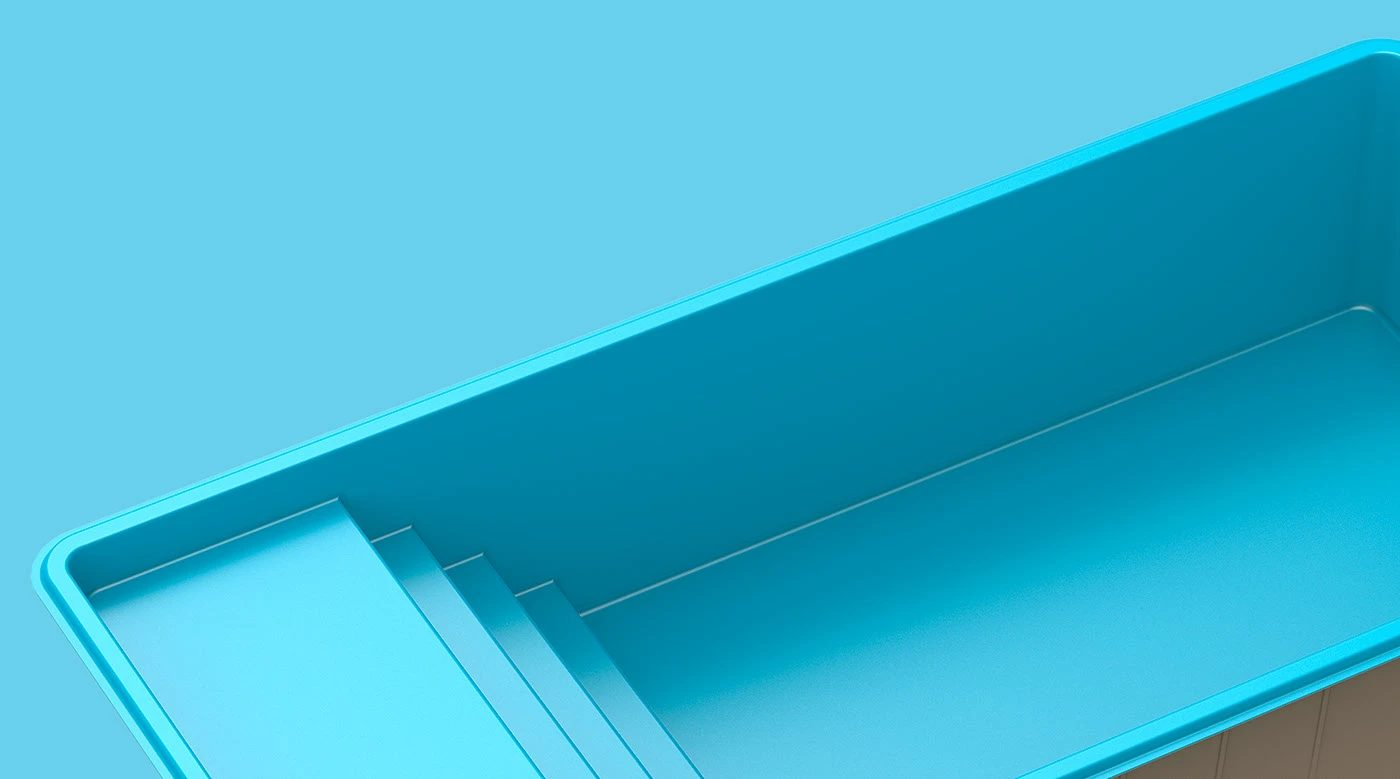
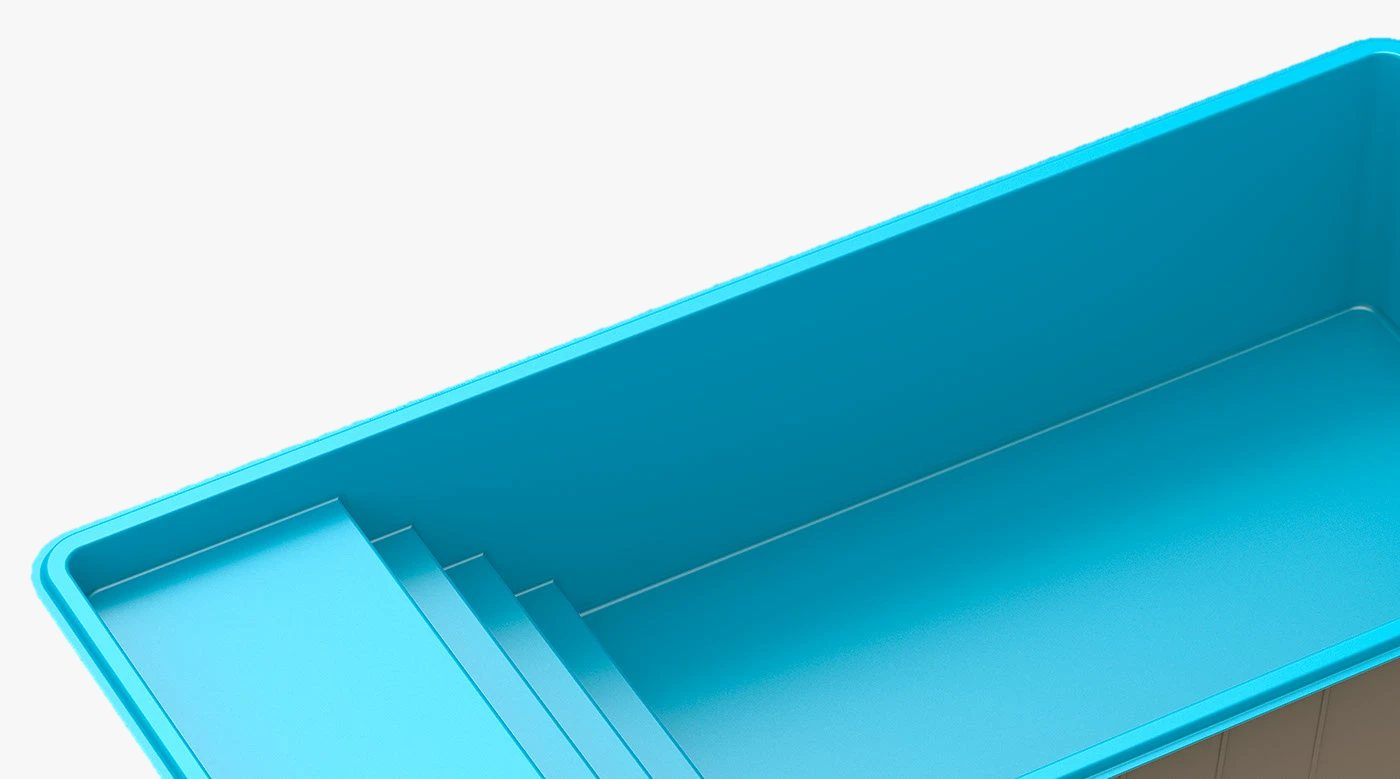
Piletas: portada sobre fondo gris claro y un único bloque final de producto terminado
Claude-Session: https://claude.ai/code/session_01638GQR5QWwYxM8MmgUFgoU

diff --git a/proyectos/piletas.html b/proyectos/piletas.html
@@ -47,7 +47,7 @@
   </div>
 
   <figure class="cs-hero">
-    <img src="../assets/img/piletas/principal.jpg" alt="Render de la pileta RH con su escalera integrada sobre fondo celeste" width="1400" height="779" style="border-radius: 4px">
+    <img src="../assets/img/piletas/principal.jpg" alt="Render de la pileta RH con su escalera integrada sobre fondo gris claro" width="1400" height="779" style="border-radius: 4px">
   </figure>
 
   <section class="cs-intro">
@@ -94,71 +94,19 @@
     <div class="cs-block__head">
       <div class="cs-block__title">
         <span class="num">03</span>
-        <h2 class="h2"><span data-l="es">Escalera y detalles</span><span data-l="en">Steps and details</span></h2>
+        <h2 class="h2"><span data-l="es">Producto terminado</span><span data-l="en">Finished product</span></h2>
       </div>
-    </div>
-    <div class="g" style="grid-template-columns: 0.750fr 0.750fr 0.750fr 0.750fr">
-      <figure class="tile"><img src="../assets/img/piletas/escalera-1.jpg" alt="Escalera integrada de la pileta, vista desde arriba" width="900" height="1200" loading="lazy"></figure>
-      <figure class="tile"><img src="../assets/img/piletas/escalera-2.jpg" alt="Detalle de la escalera y el banco" width="900" height="1200" loading="lazy"></figure>
-      <figure class="tile"><img src="../assets/img/piletas/rotulo.jpg" alt="Rótulo del modelo RH 705 en la pieza" width="900" height="1200" loading="lazy"></figure>
-      <figure class="tile"><img src="../assets/img/piletas/escalera-3.jpg" alt="Pileta dada vuelta mostrando la escalera" width="900" height="1200" loading="lazy"></figure>
-    </div>
-  </section>
-
-  <section class="cs-block">
-    <div class="cs-block__head">
-      <div class="cs-block__title">
-        <span class="num">04</span>
-        <h2 class="h2"><span data-l="es">Modelos de la línea</span><span data-l="en">Models in the line</span></h2>
-      </div>
-    </div>
-    <div class="g" style="grid-template-columns: 0.750fr 0.750fr 0.750fr">
-      <figure class="tile"><img src="../assets/img/piletas/modelo-1.jpg" alt="Pileta RH apoyada de costado" width="900" height="1200" loading="lazy"></figure>
-      <figure class="tile"><img src="../assets/img/piletas/modelo-2.jpg" alt="Pileta RH con escalera en esquina" width="900" height="1200" loading="lazy"></figure>
-      <figure class="tile"><img src="../assets/img/piletas/modelo-3.jpg" alt="Pileta RH vista de frente" width="900" height="1200" loading="lazy"></figure>
-    </div>
-    <div class="g" style="grid-template-columns: 1.333fr 0.750fr 0.750fr">
-      <figure class="tile"><img src="../assets/img/piletas/modelo-4.jpg" alt="Pileta RH de costado en el patio de la planta" width="1200" height="900" loading="lazy"></figure>
-      <figure class="tile"><img src="../assets/img/piletas/modelo-5.jpg" alt="Pileta RH levantada con autoelevador" width="900" height="1200" loading="lazy"></figure>
-      <figure class="tile"><img src="../assets/img/piletas/modelo-6.jpg" alt="Pileta RH apoyada sobre su lateral" width="900" height="1200" loading="lazy"></figure>
     </div>
     <div class="g" style="grid-template-columns: 1.797fr 1.333fr">
       <figure class="tile"><img src="../assets/img/piletas/modelo-7.jpg" alt="Pileta RH de frente, parada en el patio" width="1400" height="779" loading="lazy"></figure>
       <figure class="tile"><img src="../assets/img/piletas/modelo-0.jpg" alt="Pileta RH celeste con escalera integrada" width="1600" height="1200" loading="lazy"></figure>
     </div>
-  </section>
-
-  <section class="cs-block">
-    <div class="cs-block__head">
-      <div class="cs-block__title">
-        <span class="num">05</span>
-        <h2 class="h2"><span data-l="es">En planta</span><span data-l="en">At the plant</span></h2>
-      </div>
-    </div>
-    <div class="g" style="grid-template-columns: 0.750fr 0.750fr 0.750fr">
-      <figure class="tile"><img src="../assets/img/piletas/planta-1.jpg" alt="Pileta desmoldada, dada vuelta" width="900" height="1200" loading="lazy"></figure>
-      <figure class="tile"><img src="../assets/img/piletas/planta-2.jpg" alt="Pileta dada vuelta dentro de la nave" width="900" height="1200" loading="lazy"></figure>
-      <figure class="tile"><img src="../assets/img/piletas/planta-3.jpg" alt="Piletas desmoldadas en la nave" width="900" height="1200" loading="lazy"></figure>
-    </div>
     <div class="g" style="grid-template-columns: 1.333fr 1.333fr">
-      <figure class="tile"><img src="../assets/img/piletas/planta-4.jpg" alt="Varias piletas dadas vuelta en la planta" width="1200" height="900" loading="lazy"></figure>
-      <figure class="tile"><img src="../assets/img/piletas/planta-5.jpg" alt="Piletas con escaleras en la nave" width="1200" height="900" loading="lazy"></figure>
+      <figure class="tile"><img src="../assets/img/piletas/planta-4.jpg" alt="Varias piletas RH dadas vuelta en la planta" width="1200" height="900" loading="lazy"></figure>
+      <figure class="tile"><img src="../assets/img/piletas/despacho-1.jpg" alt="Pileta RH cargada en un camión para el despacho" width="1200" height="900" loading="lazy"></figure>
     </div>
   </section>
 
-  <section class="cs-block">
-    <div class="cs-block__head">
-      <div class="cs-block__title">
-        <span class="num">06</span>
-        <h2 class="h2"><span data-l="es">Despacho</span><span data-l="en">Shipping</span></h2>
-      </div>
-    </div>
-    <div class="g" style="grid-template-columns: 1.333fr 0.750fr 1.333fr">
-      <figure class="tile"><img src="../assets/img/piletas/despacho-1.jpg" alt="Pileta cargada en un camión" width="1200" height="900" loading="lazy"></figure>
-      <figure class="tile"><img src="../assets/img/piletas/despacho-2.jpg" alt="Pileta sobre el semirremolque" width="900" height="1200" loading="lazy"></figure>
-      <figure class="tile"><img src="../assets/img/piletas/despacho-3.jpg" alt="Pileta RH cargada lista para el despacho" width="1200" height="900" loading="lazy"></figure>
-    </div>
-  </section>
 
   <nav class="next" aria-label="Siguiente proyecto">
     <a href="control-crucero.html">
